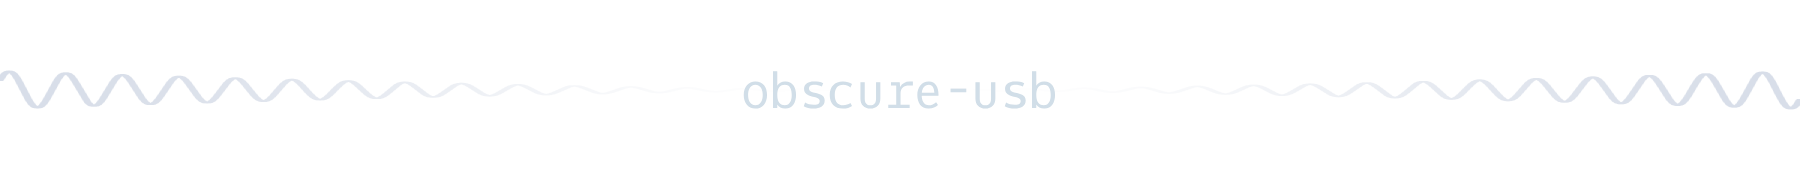
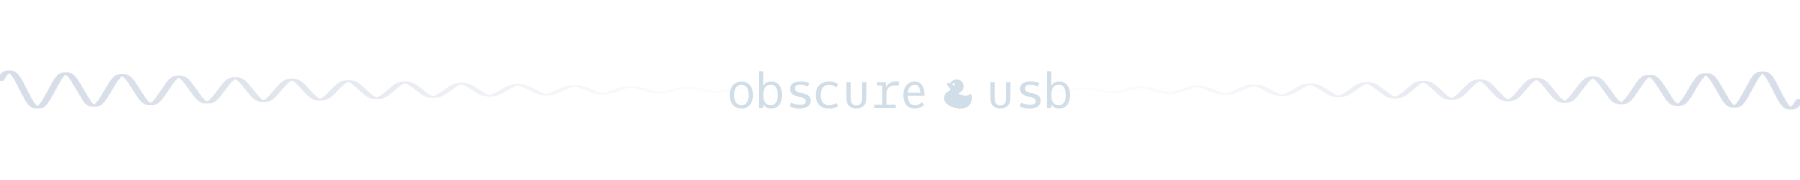
obscure header implemented in readme

Changed region(s): [[0.4044, 0.3889, 0.5911, 0.6111]]

diff --git a/README.md b/README.md
@@ -1,4 +1,6 @@
-# obscure-usb
+![Obscure USB](/src/obscure-usb-header.png)
+
+# Obscure-USB
 
 Establish a reverse shell between a Linux machine and Windows victim via a BadUSB. Tested on Debian13 with Seytonic's Malduino 3. Uses [pinggy.io](https://pinggy.io/)'s tunneling service as a middleman to connect the two devices, and [dpaste](https://dpaste.com/) to host the custom scripts online.
 